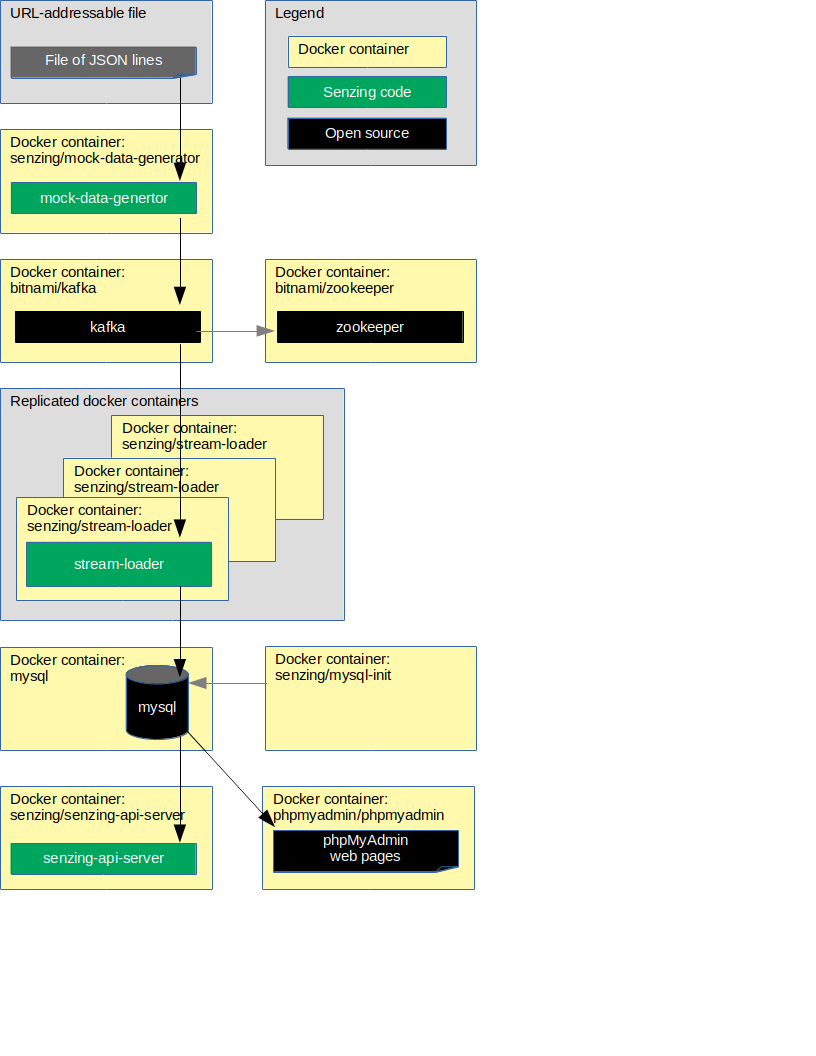
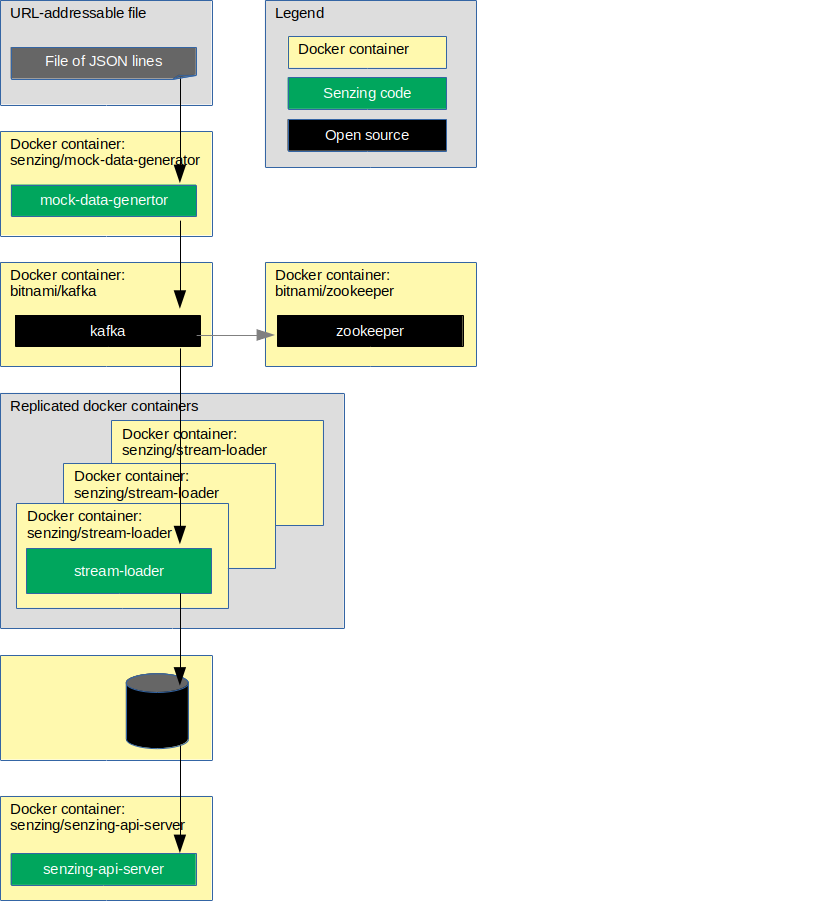
issue-18 Updated diagrams

diff --git a/README.md b/README.md
@@ -6,253 +6,8 @@ The following diagram shows the relationship of the docker containers in this do
 
 ![Image of architecture](docs/img-architecture/architecture.png)
 
-This docker formation brings up the following docker containers:
-
-1. *[bitnami/zookeeper](https://github.com/bitnami/bitnami-docker-zookeeper)*
-1. *[bitnami/kafka](https://github.com/bitnami/bitnami-docker-kafka)*
-1. *[mysql](https://github.com/docker-library/mysql)*
-1. *[phpmyadmin/phpmyadmin](https://github.com/phpmyadmin/docker)*
-1. *[senzing/mock-data-generator](https://github.com/Senzing/mock-data-generator)*
-1. *[senzing/mysql-init](https://github.com/Senzing/docker-mysql-init)*
-1. *[senzing/python-mysql-base](https://github.com/Senzing/docker-python-mysql-base)*
-1. *[senzing/stream-loader](https://github.com/Senzing/stream-loader)*
-1. *[senzing/senzing-api-server](https://github.com/Senzing/senzing-api-server)*
-
-### Contents
-
-1. [Expectations](#expectations)
-    1. [Space](#space)
-    1. [Time](#time)
-    1. [Background knowledge](#background-knowledge)
-1. [Preparation](#preparation)
-    1. [Clone repository](#clone-repository)
-    1. [Create SENZING_DIR](#create-senzing_dir)
-    1. [Prerequisite software](#prerequisite-software)
-1. [Using docker-compose](#using-docker-compose)
-    1. [Build docker images](#build-docker-images)
-    1. [Configuration](#configuration)
-    1. [Run docker formation to initialize database](#run-docker-formation-to-initialize-database)
-    1. [Run docker formation to read from Kafka](#run-docker-formation-to-read-from-kafka)
-1. [Cleanup](#cleanup)
-
-## Expectations
-
-### Space
-
-This repository and demonstration require 7 GB free disk space.
-
-### Time
-
-Budget 2 hours to get the demonstration up-and-running, depending on CPU and network speeds.
-
-### Background knowledge
-
-This repository assumes a working knowledge of:
-
-1. [Docker](https://github.com/Senzing/knowledge-base/blob/master/WHATIS/docker.md)
-1. [Docker-compose](https://github.com/Senzing/knowledge-base/blob/master/WHATIS/docker-compose.md)
-
-## Preparation
-
-### Clone repository
-
-1. Set these environment variable values:
-
-    ```console
-    export GIT_ACCOUNT=senzing
-    export GIT_REPOSITORY=docker-compose-stream-loader-kafka-demo
-    ```
-
-   Then follow steps in [clone-repository](https://github.com/Senzing/knowledge-base/blob/master/HOWTO/clone-repository.md).
-
-1. After the repository has been cloned, be sure the following are set:
-
-    ```console
-    export GIT_ACCOUNT_DIR=~/${GIT_ACCOUNT}.git
-    export GIT_REPOSITORY_DIR="${GIT_ACCOUNT_DIR}/${GIT_REPOSITORY}"
-    ```
-
-### Create SENZING_DIR
-
-If you do not already have an `/opt/senzing` directory on your local system, visit
-[HOWTO - Create SENZING_DIR](https://github.com/Senzing/knowledge-base/blob/master/HOWTO/create-senzing-dir.md).
-
-### Prerequisite software
-
-The following software programs need to be installed.
-
-#### docker
-
-1. [Install docker](https://github.com/Senzing/knowledge-base/blob/master/HOWTO/install-docker.md)
-1. Test
-
-    ```console
-    sudo docker --version
-    sudo docker run hello-world
-    ```
-
-#### docker-compose
-
-1. [Install docker-compose](https://github.com/Senzing/knowledge-base/blob/master/HOWTO/install-docker-compose.md)
-1. Test
-
-    ```console
-    sudo docker-compose --version
-    ```
-
-## Using docker-compose
-
-### Build docker images
-
-1. Build docker images.
-
-    ```console
-    export BASE_IMAGE=senzing/python-mysql-base
-
-    sudo docker build \
-      --tag ${BASE_IMAGE} \
-      https://github.com/senzing/docker-python-mysql-base.git
-
-    sudo docker build \
-      --tag senzing/stream-loader \
-      --build-arg BASE_IMAGE=${BASE_IMAGE} \
-      https://github.com/senzing/stream-loader.git
-
-    sudo docker build --tag senzing/mock-data-generator https://github.com/senzing/mock-data-generator.git
-    sudo docker build --tag senzing/mysql-init          https://github.com/senzing/docker-mysql-init.git
-    ```
-
-1. Build [senzing/senzing-api-server](https://github.com/Senzing/senzing-api-server#using-docker) docker image.
-
-### Configuration
-
-- **SENZING_DIR** -
-  Path on the local system where
-  [Senzing_API.tgz](https://s3.amazonaws.com/public-read-access/SenzingComDownloads/Senzing_API.tgz)
-  has been extracted.
-  See [Create SENZING_DIR](#create-senzing_dir).
-  No default.
-  Usually set to "/opt/senzing".
-- **MYSQL_ROOT_PASSWORD** -
-  The password for the the database "root" user name.
-  Default: "root"
-- **MYSQL_STORAGE** -
-  Path on local system where the database files are stored.
-  Default: "/storage/docker/senzing/docker-compose-mysql-demo"
-- See [github.com/Senzing/docker-mysql](https://github.com/Senzing/docker-mysql)
-  for more details on how to find values for other **MYSQL_** environment variables.
-
-### Run docker formation to initialize database
-
-1. Launch docker-compose formation.  Example:
-
-    ```console
-    cd ${GIT_REPOSITORY_DIR}
-
-    export SENZING_DIR=/opt/senzing
-
-    export MYSQL_DATABASE=G2
-    export MYSQL_ROOT_PASSWORD=root
-    export MYSQL_USERNAME=g2
-    export MYSQL_PASSWORD=g2
-    export MYSQL_STORAGE=/storage/docker/senzing/docker-compose-stream-loader-kafka-demo
-
-    sudo docker-compose --file docker-compose-mysql-init.yaml up
-    ```
-
-1. Once docker formation is up, phpMyAdmin will be available at
-   [localhost:8080](http://localhost:8080).
-   You can log in with Username "root" and the Password specified in `MYSQL_ROOT_PASSWORD`.
-
-1. The database storage will persist on the local system at ${MYSQL_STORAGE}.
-   The default database storage path is `/storage/docker/senzing/docker-compose-stream-loader-kafka-demo`.
-
-1. When the following is seen in the log:
-
-    ```console
-    senzing-mysql-init exited with code 0
-    ```
-
-    the docker formation can be brought down.
-
-    ```console
-    cd ${GIT_REPOSITORY_DIR}
-    sudo docker-compose --file docker-compose-mysql-init.yaml down
-    ```
-
-### Run docker formation to read from Kafka
-
-1. Launch docker-compose formation.
-
-    ```console
-    cd ${GIT_REPOSITORY_DIR}
-
-    export SENZING_DIR=/opt/senzing
-
-    export MYSQL_DATABASE=G2
-    export MYSQL_ROOT_PASSWORD=root
-    export MYSQL_USERNAME=g2
-    export MYSQL_PASSWORD=g2
-    export MYSQL_STORAGE=/storage/docker/senzing/docker-compose-stream-loader-kafka-demo
-
-    sudo docker-compose --file docker-compose-mysql-kafka.yaml up
-    ```
-
-1. Once docker formation is up, phpMyAdmin will be available at
-   [localhost:8080](http://localhost:8080).
-   The records received from Kafka can be viewed in the following Senzing tables:
-    1. G2 > DSRC_RECORD
-    1. G2 > OBS_ENT
-
-### Test Docker container
-
-1. Wait for the following message in the terminal showing docker log.
-
-    ```console
-    senzing-api-server | Started Senzing REST API Server on port 8080.
-    senzing-api-server |
-    senzing-api-server | Server running at:
-    senzing-api-server | http://0.0.0.0:8080/
-    ```
-
-1. Test Senzing REST API server.
-   *Note:* port 8889 on the localhost has been mapped to port 8080 in the docker container.
-   See `WEBAPP_PORT` definition.
-   Example:
-
-    ```console
-    export SENZING_API_SERVICE=http://localhost:8889
-
-    curl -X GET ${SENZING_API_SERVICE}/heartbeat
-    curl -X GET ${SENZING_API_SERVICE}/license
-    ```
-
-## Cleanup
-
-In a separate (or reusable) terminal window:
-
-1. Use environment variable describe in "[Set environment variables](#set-environment-variables)" and "[Configuration](#configuration)".
-1. Run `docker-compose` command.
-
-    ```console
-    cd ${GIT_REPOSITORY_DIR}
-    sudo docker-compose --file docker-compose-mysql-kafka.yaml down
-    ```
-
-1. Delete database storage.
-
-    ```console
-    sudo rm -rf ${MYSQL_STORAGE}
-    ```
-
-1. Delete SENZING_DIR.
-
-    ```console
-    sudo rm -rf ${SENZING_DIR}
-    ```
-
-1. Delete git repository.
-
-    ```console
-    sudo rm -rf ${GIT_REPOSITORY_DIR}
-    ```
+Implementations of the docker formation:
+
+1. [Using mySQL database](docs/docker-compose-stream-loader-kafka-mysql/README.md)
+1. [Using SqLite database](docs/docker-compose-stream-loader-kafka-sqlite/README.md)
+1. [Using PostgreSQL database](docs/docker-compose-stream-loader-kafka-postgresql/README.md)
